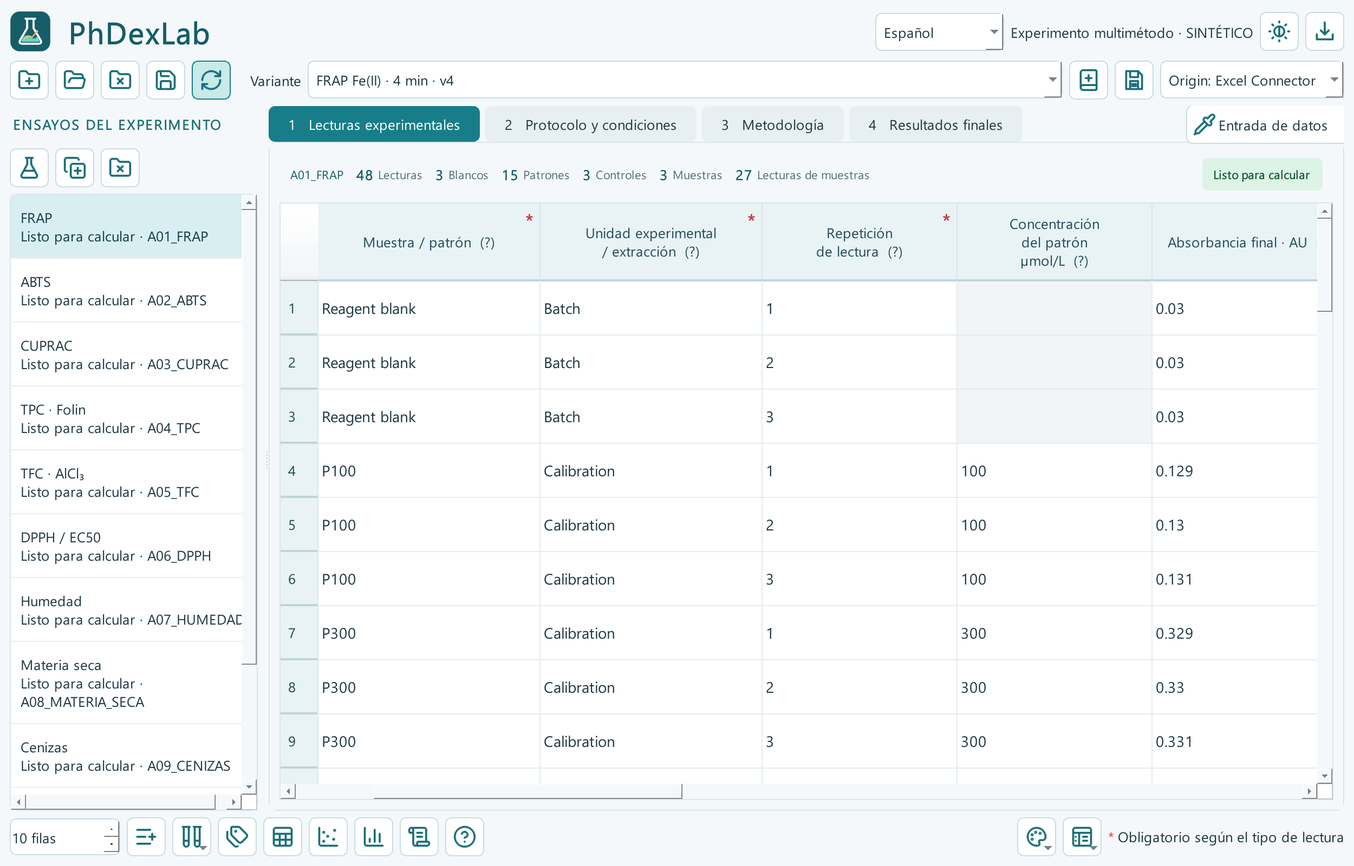
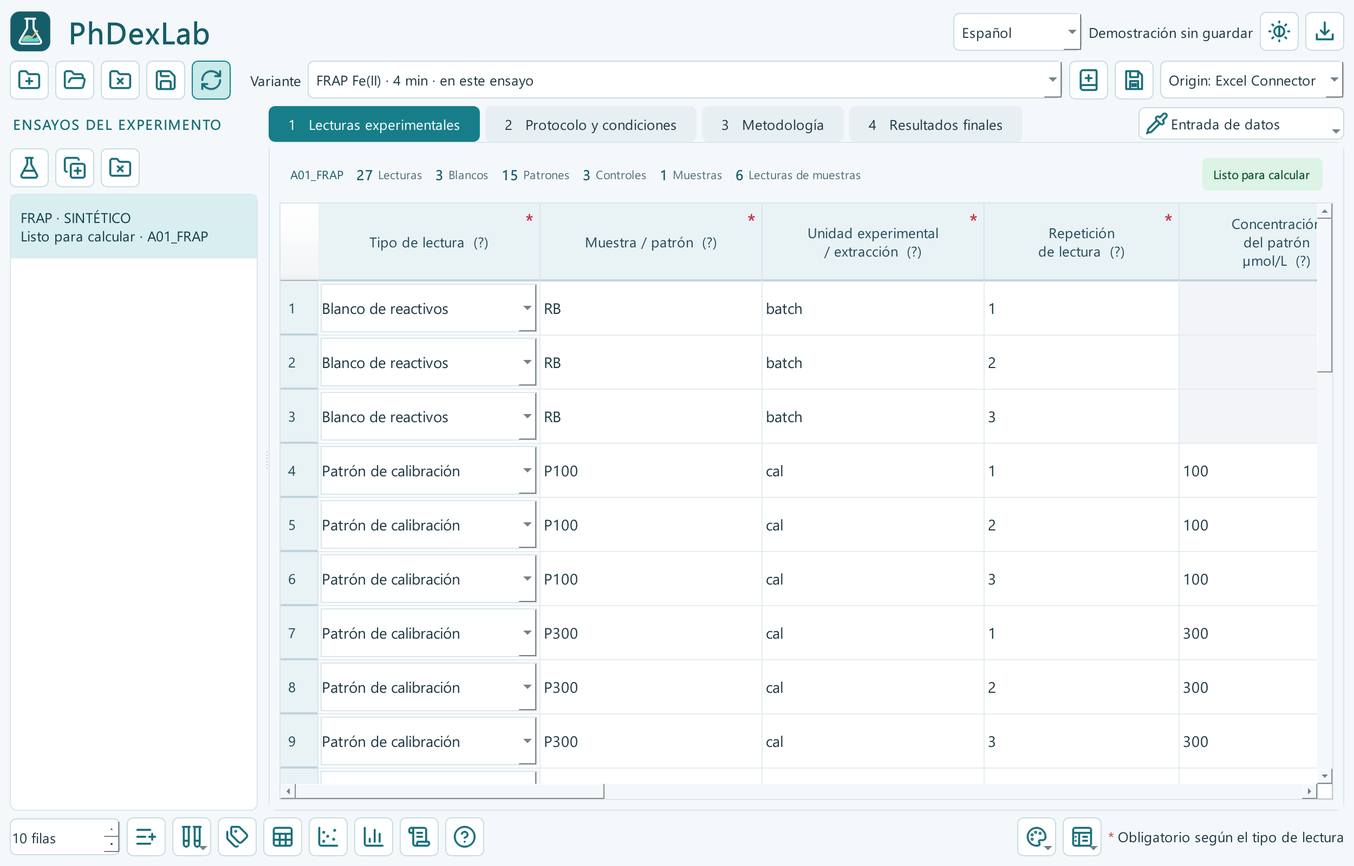
Fix data entry menu access and reserve tab corner space (0.12.1)

diff --git a/phdexlab/help_readings.py b/phdexlab/help_readings.py
@@ -4,13 +4,13 @@ from . import i18n
 def revise(content):
     en=i18n.LANGUAGE=='en';content=list(content)
     content[2]=('3 · Readings or a mean' if en else '3 · Lecturas o una media',
-        '''<h2>Quick entry</h2><ol><li>Select an assay and click <b>Add readings or a mean</b> (pipette, above the table).</li><li>Choose sample, standard, blank/radical control or quality control; enter its name and experimental unit.</li><li>Choose <b>Individual readings</b> and enter 3, 5 or any number of readings, or choose <b>Precomputed mean</b> and enter only the mean.</li><li>Known technical n and response SD are optional for a supplied mean. Leave them blank if unknown.</li><li>Add to the table. Original readings remain separate; a supplied mean remains one explicitly labelled record.</li></ol><p>Individual readings and a mean cannot describe the same unit/condition simultaneously. A grand mean is not several independent replicates.</p><h2>Table editing</h2><p>One click selects, typing replaces, F2/double-click edits. Delete clears cells. Ctrl+C/X/V and the right-click menu copy, cut, paste, insert and delete rows. Missing required values have a red *. Incomplete work can be saved as a draft.</p>'''
-        if en else '''<h2>Entrada rápida</h2><ol><li>Selecciona un ensayo y pulsa <b>Añadir lecturas o una media</b> (pipeta, sobre la tabla).</li><li>Elige muestra, patrón, blanco/control radical o control de calidad; indica nombre y unidad experimental.</li><li>Elige <b>Lecturas individuales</b> e introduce 3, 5 o las que necesites, o selecciona <b>Media ya calculada</b> y escribe solo la media.</li><li>El n técnico y la DE de respuesta de una media son opcionales. Déjalos vacíos si no los conoces.</li><li>Añade a la tabla. Las lecturas originales se conservan por separado; una media permanece como un único registro identificado.</li></ol><p>No se admiten lecturas individuales y una media para la misma unidad/condición. Una media global no equivale a varias réplicas experimentales.</p><h2>Editar la tabla</h2><p>Un clic selecciona, escribir sustituye y F2/doble clic edita. Supr borra. Ctrl+C/X/V y el menú con clic derecho permiten copiar, cortar, pegar, insertar y eliminar filas. Los campos obligatorios llevan * rojo. Puedes guardar datos incompletos como borrador.</p>''')
+        '''<h2>Quick entry</h2><ol><li>Select an assay and click <b>Data entry → New sample or standard</b> on the right of the tabs.</li><li>Choose sample, standard, blank/radical control or quality control; enter its name and experimental unit.</li><li>Choose <b>Individual readings</b> and enter 3, 5 or any number of readings, or choose <b>Precomputed mean</b> and enter only the mean.</li><li>Known technical n and response SD are optional for a supplied mean. Leave them blank if unknown.</li><li>Add to the table. Original readings remain separate; a supplied mean remains one explicitly labelled record.</li></ol><p>Individual readings and a mean cannot describe the same unit/condition simultaneously. A grand mean is not several independent replicates.</p><h2>Table editing</h2><p>One click selects, typing replaces, F2/double-click edits. Delete clears cells. Ctrl+C/X/V and the right-click menu copy, cut, paste, insert and delete rows. Missing required values have a red *. Incomplete work can be saved as a draft.</p>'''
+        if en else '''<h2>Entrada rápida</h2><ol><li>Selecciona un ensayo y pulsa <b>Entrada de datos → Nueva muestra o patrón</b> a la derecha de las pestañas.</li><li>Elige muestra, patrón, blanco/control radical o control de calidad; indica nombre y unidad experimental.</li><li>Elige <b>Lecturas individuales</b> e introduce 3, 5 o las que necesites, o selecciona <b>Media ya calculada</b> y escribe solo la media.</li><li>El n técnico y la DE de respuesta de una media son opcionales. Déjalos vacíos si no los conoces.</li><li>Añade a la tabla. Las lecturas originales se conservan por separado; una media permanece como un único registro identificado.</li></ol><p>No se admiten lecturas individuales y una media para la misma unidad/condición. Una media global no equivale a varias réplicas experimentales.</p><h2>Editar la tabla</h2><p>Un clic selecciona, escribir sustituye y F2/doble clic edita. Supr borra. Ctrl+C/X/V y el menú con clic derecho permiten copiar, cortar, pegar, insertar y eliminar filas. Los campos obligatorios llevan * rojo. Puedes guardar datos incompletos como borrador.</p>''')
     content[2]=(content[2][0],content[2][1]+(
         '<h3>Fill and repetitions</h3><p>Select P0 and P1 and drag the corner square to continue the series. Ctrl+D fills down, Ctrl+R fills right; Ctrl+Z/Y undo and redo.</p><p>In the right-click menu, <b>Number repeated readings</b> numbers existing rows by sample and unit. <b>Add repeated readings</b> adds blank measurements with their identifiers already filled.</p>'
         if en else '<h3>Rellenar y repetir</h3><p>Selecciona P0 y P1 y arrastra el cuadrado de la esquina para continuar la serie. Ctrl+D rellena hacia abajo, Ctrl+R hacia la derecha; Ctrl+Z/Y deshace y rehace.</p><p>En el menú de clic derecho, <b>Numerar repeticiones</b> numera filas existentes por muestra y unidad. <b>Añadir repeticiones</b> crea mediciones vacías con los identificadores ya rellenados.</p>'))
-    content[1]=(content[1][0],content[1][1]+('''<h2>Input options</h2><p>The first controls in Protocol and conditions set the signal, preferred entry mode, default number of readings, sample correction, blank handling, input defaults and minimum calibration levels. A default count prepares the form; it does not require exactly that many measurements.</p><p>For an older experiment, use the arrow beside the pipette → Configure entry in Protocol and conditions. This explicitly adds the options while preserving readings and the original signal. Save to retain the change.</p><p>An initial reading is required only for paired ΔA. Already measured ΔA needs one value. Endpoint input needs one absorbance. Changing the reference signal is an operator adaptation; clear old measurements or use another assay before changing their meaning.</p>'''
-        if en else '''<h2>Opciones de entrada</h2><p>Los primeros controles de Protocolo y condiciones definen señal, modo preferido, número de lecturas propuesto, corrección de muestra, tratamiento del blanco, valores por defecto y mínimo de niveles de calibración. El número propuesto prepara la ventana; no obliga a medir exactamente esa cantidad.</p><p>Para un experimento anterior, usa la flecha de la pipeta → Configurar entrada en Protocolo y condiciones. La activación es explícita y conserva las medidas y la señal original. Guarda para conservarla.</p><p>La inicial solo es necesaria para ΔA por parejas. Un ΔA ya medido necesita un valor. La lectura única necesita una absorbancia. Cambiar la señal de referencia es una adaptación del operador; borra explícitamente las medidas anteriores o usa otro ensayo antes de cambiar su significado.</p>'''))
+    content[1]=(content[1][0],content[1][1]+('''<h2>Input options</h2><p>The first controls in Protocol and conditions set the signal, preferred entry mode, default number of readings, sample correction, blank handling, input defaults and minimum calibration levels. A default count prepares the form; it does not require exactly that many measurements.</p><p>For an older experiment, use Data entry → Configure entry in Protocol and conditions. This explicitly adds the options while preserving readings and the original signal. Save to retain the change.</p><p>An initial reading is required only for paired ΔA. Already measured ΔA needs one value. Endpoint input needs one absorbance. Changing the reference signal is an operator adaptation; clear old measurements or use another assay before changing their meaning.</p>'''
+        if en else '''<h2>Opciones de entrada</h2><p>Los primeros controles de Protocolo y condiciones definen señal, modo preferido, número de lecturas propuesto, corrección de muestra, tratamiento del blanco, valores por defecto y mínimo de niveles de calibración. El número propuesto prepara la ventana; no obliga a medir exactamente esa cantidad.</p><p>Para un experimento anterior, usa Entrada de datos → Configurar entrada en Protocolo y condiciones. La activación es explícita y conserva las medidas y la señal original. Guarda para conservarla.</p><p>La inicial solo es necesaria para ΔA por parejas. Un ΔA ya medido necesita un valor. La lectura única necesita una absorbancia. Cambiar la señal de referencia es una adaptación del operador; borra explícitamente las medidas anteriores o usa otro ensayo antes de cambiar su significado.</p>'''))
     content[4]=(content[4][0],'''<h2>Reagent blank versus sample background</h2><p>A reagent blank accounts for the reagents/solvent. A sample blank accounts for the sample's own colour or turbidity, measured without the assay chromophore under appropriate matched conditions. They are different corrections.</p><p><b>Default: No additional correction.</b> You do not need to enter zeros throughout the table. Enable Additional sample blank (net) only when you have measured and justified it. Enter its net contribution, already corrected against its own blank.</p><p>Example: sample A = 0.620, reagent blank = 0.020 and additional net background = 0.030 gives 0.570 AU. Do not put 0.020 into both blank fields. For paired ΔA, supply a background correction appropriate to the change.</p><h2>Already zeroed readings</h2><p>For colorimetric assays only, choose Readings already zeroed against a reagent blank if the instrument did that subtraction. No fictitious blank measurement is created. ABTS and DPPH still require their radical controls; these are not initial readings of the sample.</p><h2>Calibration</h2><p>Each assay has one calibration shared by its samples. The configurable minimum is 3 distinct levels by default, 2 at the mathematical minimum; two points do not establish linearity. Quality controls use Expected control once, in the calibration-axis units. Review range, residuals and recovery, not only R².</p>'''
         if en else '''<h2>Blanco de reactivos y fondo de muestra</h2><p>El blanco de reactivos recoge la señal de reactivos/disolvente. El blanco propio de muestra recoge su color o turbidez, medidos sin el cromóforo del ensayo en condiciones equivalentes apropiadas. Son correcciones distintas.</p><p><b>Por defecto: Sin corrección adicional.</b> No tienes que rellenar ceros en toda la tabla. Activa Blanco propio de muestra (neto) solo si lo has medido y justificado. Introduce su contribución neta, ya corregida por su propio blanco.</p><p>Ejemplo: A de muestra = 0,620, blanco de reactivos = 0,020 y fondo neto adicional = 0,030 dan 0,570 AU. No pongas 0,020 en ambos campos. Para ΔA por parejas, la corrección debe corresponder al incremento.</p><h2>Lecturas ya puestas a cero</h2><p>Solo en ensayos colorimétricos, elige Lecturas ya puestas a cero con blanco si el equipo hizo esa sustracción. No se crea una medición ficticia del blanco. ABTS y DPPH siguen necesitando sus controles radicales; no son lecturas iniciales de la muestra.</p><h2>Calibración</h2><p>Cada ensayo tiene una curva compartida por sus muestras. El mínimo configurable es 3 niveles distintos por defecto, con mínimo matemático de 2; dos puntos no demuestran linealidad. Los controles de calidad usan Esperado del control una sola vez, en las unidades del eje de calibración. Revisa rango, residuos y recuperación, además de R².</p>''')
     content[6]=(content[6][0],content[6][1]+('''<p>You may enter individual absorbances or their supplied mean at each dose/time/experimental unit. Keep the final-mixture dose, real time and operator plateau confirmation. A supplied EC50 value is not an absorbance mean and cannot replace the dose-response measurements.</p>''' if en else '''<p>Puedes introducir absorbancias individuales o su media para cada dosis/tiempo/unidad experimental. Conserva dosis final, tiempo real y confirmación de meseta. Una EC50 ya calculada no es una media de absorbancias y no sustituye las medidas de dosis-respuesta.</p>'''))
@@ -23,7 +23,7 @@ def revise(content):
     content[1]=(content[1][0],content[1][1]+('<p>Protocol source is optional. Leave it empty if you have no reference; existing links are retained when provided.</p>' if en else '<p>Fuente del protocolo es opcional. Déjala vacía si no dispones de referencia; los enlaces aportados se conservan.</p>'))
     content[8]=(content[8][0],content[8][1]+('<h3>Compact Excel</h3><p>Overview combines assays, samples and final results. Each assay has Data (readings, conditions and method) and Analysis (results and calculations). Top links jump to each section. Edit inputs only.</p>' if en else '<h3>Excel agrupado</h3><p>Overview reúne ensayos, muestras y resultados finales. Cada ensayo tiene Data (lecturas, condiciones y método) y Analysis (resultados y cálculos). Los enlaces superiores llevan a cada sección. Edita solo las entradas.</p>'))
     content[11]=(content[11][0],content[11][1]+('<h3>Excel appearance</h3><p>Open the palette menu and choose Excel style. Choose or edit a preset, font and row spacing. The preview updates immediately; save a personal preset to reuse it. Apply, then save or update the experiment.</p>' if en else '<h3>Estilo del Excel</h3><p>Abre el menú de la paleta y elige Estilo del Excel. Escoge o edita una plantilla, letra y altura de filas. La vista previa cambia al momento; guarda un estilo personal para reutilizarlo. Aplica y guarda o actualiza el experimento.</p>'))
-    return content
 
     content[2]=(content[2][0],content[2][1]+('<h3>Import a text file</h3><p>Open Data entry → Import file. Choose separators and encoding, then drag each file header onto its PhDexLab field or use the lists. Review the PhDexLab preview before importing. Rows are appended; missing inputs remain a draft.</p>' if en else '<h3>Importar un archivo de texto</h3><p>Abre Entrada de datos → Importar archivo. Elige separadores y codificación; arrastra cada encabezado a su campo de PhDexLab o usa las listas. Revisa Vista en PhDexLab antes de importar. Se añaden filas; los datos pendientes quedan como borrador.</p>'))
     content[8]=(content[8][0],content[8][1]+('<p>The calculation route links each analysis step. Reading labels identify sample/unit/repeat; same-sheet formulas use local cell addresses. No rows are frozen. Recalculation saves the workbook on Overview.</p>' if en else '<p>El recorrido de cálculo enlaza cada paso. Las filas identifican muestra/unidad/repetición y las fórmulas de la misma hoja usan direcciones locales. No hay filas fijadas. El recálculo guarda el libro en Overview.</p>'))
+    return content

diff --git a/phdexlab/workspace.py b/phdexlab/workspace.py
@@ -67,8 +67,23 @@ class Window(WorkspaceFeatures,SingleAssayWindow):
         self.save_variant_button=self.make_button('Guardar protocolo como nueva variante versionada',self.save_variant,'protocol-save',bar)
         bar.removeWidget(self.save_variant_button);bar.insertWidget(bar.count()-1,self.save_variant_button)
         self.measure_button=next(b for b in self.buttons if b.property('iconName')=='measure')
-        layout.itemAt(3).layout().removeWidget(self.measure_button);self.measure_button.setText('Entrada de datos');self.measure_button.setToolTip('Nueva muestra o patrón');self.measure_button.setToolButtonStyle(Qt.ToolButtonStyle.ToolButtonTextBesideIcon);self.measure_button.setFixedWidth(250);self.tabs.setCornerWidget(self.measure_button,Qt.Corner.TopRightCorner)
-        entry_menu=QMenu(self.measure_button);entry_menu.addAction(t('Nueva muestra o patrón'),lambda:self.guard(self.add_sample));entry_menu.addAction(t('Importar archivo…'),lambda:self.guard(self.import_readings));entry_menu.addSeparator();entry_menu.addAction(t('Numerar repeticiones'),lambda:self.guard(self.raw.number_repeated_readings));entry_menu.addAction(t('Añadir repeticiones…'),lambda:self.guard(self.raw.add_repeated_readings));entry_menu.addAction(t('Configurar entrada en Protocolo y condiciones'),lambda:self.guard(self.configure_input_options));self.measure_button.setMenu(entry_menu);self.measure_button.setPopupMode(QToolButton.ToolButtonPopupMode.MenuButtonPopup)
+        layout.itemAt(3).layout().removeWidget(self.measure_button)
+        # Reserve the corner width even when the tab labels need scrolling.
+        # The entire button opens the menu; no small split-arrow target is needed.
+        self.measure_button.clicked.disconnect()
+        self.measure_button.setText('Entrada de datos');self.measure_button.setToolTip('Entrada de datos')
+        self.measure_button.setToolButtonStyle(Qt.ToolButtonStyle.ToolButtonTextBesideIcon)
+        self.measure_button.setFixedWidth(190)
+        self.measure_button.setFixedHeight(30)
+        self.tabs.setUsesScrollButtons(True)
+        self.tabs.tabBar().setExpanding(False)
+        # QTabWidget measures sizeHint(), which differs from a fixed-width
+        # QToolButton's hint. A layout-backed corner reserves its actual width.
+        self.entry_corner=QWidget()
+        corner_layout=QHBoxLayout(self.entry_corner);corner_layout.setContentsMargins(0,0,0,0)
+        corner_layout.addWidget(self.measure_button)
+        self.tabs.setCornerWidget(self.entry_corner,Qt.Corner.TopRightCorner)
+        entry_menu=QMenu(self.measure_button);entry_menu.addAction('Nueva muestra o patrón',lambda:self.guard(self.add_sample));entry_menu.addAction('Importar archivo…',lambda:self.guard(self.import_readings));entry_menu.addSeparator();entry_menu.addAction('Numerar repeticiones',lambda:self.guard(self.raw.number_repeated_readings));entry_menu.addAction('Añadir repeticiones…',lambda:self.guard(self.raw.add_repeated_readings));entry_menu.addAction('Configurar entrada en Protocolo y condiciones',lambda:self.guard(self.configure_input_options));self.measure_button.setMenu(entry_menu);self.measure_button.setPopupMode(QToolButton.ToolButtonPopupMode.InstantPopup)
         self.method_guide=QTextBrowser();self.method_guide.setOpenExternalLinks(True);self.tabs.addTab(self.method_guide,'3   Metodología')
         self.help_dialog.close();self.help_dialog.deleteLater();self.help_dialog=HelpDialog(self)
         self.demo_menu.clear()

diff --git a/tests/test_v0121.py b/tests/test_v0121.py
@@ -1,0 +1,51 @@
+import pytest
+from PySide6.QtCore import Qt,QTimer,QPoint
+from PySide6.QtTest import QTest
+from PySide6.QtWidgets import QApplication,QToolButton
+
+
+@pytest.mark.parametrize('language,width',[('es',1000),('en',1000),('es',1280),('en',1480)])
+def test_data_entry_whole_button_opens_import_menu_without_tab_overlap(tmp_path,monkeypatch,language,width):
+    monkeypatch.setenv('PHDEXLAB_DATA_DIR',str(tmp_path))
+    from phdexlab import workspace
+    from phdexlab.interface import configure_font
+    configure_font(QApplication.instance())
+    from phdexlab.appearance import save_preferences
+    save_preferences(language,'light')
+    w=workspace.Window();w.load_demo();w.resize(width,800);w.show();QApplication.processEvents()
+    b=w.measure_button
+    assert b.isVisible() and b.isEnabled()
+    assert b.popupMode()==QToolButton.ToolButtonPopupMode.InstantPopup
+    corner=w.tabs.cornerWidget(Qt.Corner.TopRightCorner)
+    assert corner is w.entry_corner
+    assert w.tabs.rect().contains(b.mapTo(w.tabs,QPoint(0,0)))
+    assert w.tabs.rect().contains(b.mapTo(w.tabs,b.rect().bottomRight()))
+    assert corner.rect().contains(b.mapTo(corner,b.rect().bottomRight()))
+    assert w.tabs.tabBar().geometry().right()<corner.geometry().left()
+    called=[];opened=[]
+    monkeypatch.setattr(w,'add_sample',lambda:called.append('sample'))
+    monkeypatch.setattr(w,'import_readings',lambda:called.append('import'))
+    def shown():
+        opened.append(True)
+        QTimer.singleShot(0,b.menu().close)
+    b.menu().aboutToShow.connect(shown)
+    # Test a click on the left icon and in the middle, never the arrow region.
+    for pos in (QPoint(12,b.height()//2),b.rect().center()):
+        QTest.mouseClick(b,Qt.MouseButton.LeftButton,pos=pos)
+        QApplication.processEvents()
+    assert len(opened)==2 and called==[]
+    actions=[a for a in b.menu().actions() if not a.isSeparator()]
+    assert ('Importar archivo' if language=='es' else 'Import file') in actions[1].text()
+    actions[1].trigger();assert called==['import']
+    actions[0].trigger();assert called==['import','sample']
+    w.dirty=False;w.close()
+
+
+@pytest.mark.parametrize('language',['en','es'])
+def test_help_contains_import_and_calculation_route(language):
+    from phdexlab import i18n
+    from phdexlab.help_readings import revise
+    i18n.set_language(language)
+    content=revise([('title','') for _ in range(12)])
+    assert ('Import a text file' if language=='en' else 'Importar un archivo de texto') in content[2][1]
+    assert ('calculation route' if language=='en' else 'recorrido de cálculo') in content[8][1]

diff --git a/phdexlab/release_notes.py b/phdexlab/release_notes.py
@@ -8,18 +8,12 @@ from .updater import version,REPO_URL
 
 NOTES={
     'es':[
-        'Excel: recorrido de cálculo con enlaces, filas identificadas por muestra y referencias locales más sencillas.',
-        'Sin filas fijadas. Overview vuelve a ser la hoja inicial después de calcular.',
-        'Entrada de datos: importa CSV, TXT, TSV y otros textos delimitados con separadores y codificación configurables.',
-        'Asigna columnas arrastrando sus encabezados o con listas y revisa el resultado antes de importar.',
-        'Origin: vista de página completa guardada, sin modificar las dimensiones de las figuras.'
+        'Entrada de datos está a la derecha de las pestañas. Pulsa cualquier parte del botón para abrir el menú e importar un archivo.',
+        'Ayuda actualizada con las instrucciones de importación y el recorrido de cálculo de Excel.'
     ],
     'en':[
-        'Excel: linked calculation route, sample-labelled readings and simpler local cell references.',
-        'No frozen rows. Overview is restored as the initial sheet after calculation.',
-        'Data entry: import CSV, TXT, TSV and other delimited text with configurable separators and encoding.',
-        'Map columns by dragging headers or using lists, then preview the result before importing.',
-        'Origin: saved whole-page view, preserving publication dimensions.'
+        'Data entry is on the right of the tabs. Click anywhere on the button to open its menu and import a file.',
+        'Updated help with file import instructions and the Excel calculation route.'
     ]}
 
 

diff --git a/phdexlab/__init__.py b/phdexlab/__init__.py
@@ -1,2 +1,2 @@
 """Standalone experimental analysis. Public API: phdexlab.integration."""
-__version__ = "0.12.0"
+__version__ = "0.12.1"

diff --git a/docs/MANUAL.md b/docs/MANUAL.md
@@ -46,7 +46,7 @@ Para continuar un trabajo, abre su carpeta raíz desde la aplicación. **Cerrar 
 
 ### Lecturas individuales o una media
 
-Pulsa **Entrada de datos / Data entry**, el botón de pipeta sobre la tabla. Elige tipo de lectura, muestra/patrón y unidad experimental. Puedes introducir 3, 5 o más absorbancias, o elegir **Media ya calculada / Precomputed mean** y escribir solo esa media. Las casillas vacías que sobren no se cuentan como medidas; una pareja parcialmente rellenada sigue pendiente.
+Pulsa **Entrada de datos / Data entry → Nueva muestra o patrón / New sample or standard**, el botón de pipeta a la derecha de las pestañas. Elige tipo de lectura, muestra/patrón y unidad experimental. Puedes introducir 3, 5 o más absorbancias, o elegir **Media ya calculada / Precomputed mean** y escribir solo esa media. Las casillas vacías que sobren no se cuentan como medidas; una pareja parcialmente rellenada sigue pendiente.
 
 ![Entrada de lecturas individuales](readings-en-v092.png)
 
@@ -69,7 +69,9 @@ En RAW, cada fila representa una lectura original o una media aportada identific
 
 Un clic selecciona la celda. Escribir sustituye su contenido; F2 o doble clic permite editar el texto existente. Supr deja vacías las celdas seleccionadas. Ctrl+C, Ctrl+X y Ctrl+V permiten copiar, cortar y pegar. El menú con clic derecho permite insertar una cantidad de filas, eliminar las seleccionadas, copiar filas completas y pegarlas como filas nuevas; estas reciben identificadores internos nuevos. Puedes pegar una tabla de Excel con tabulaciones desde la celda seleccionada. Añade las filas necesarias con el control de cantidad de filas. Los asteriscos rojos indican campos obligatorios para la categoría y el protocolo de esa fila. Las columnas atenuadas no se utilizan en ese contexto.
 
-Para importar un archivo, abre la flecha de **Entrada de datos → Importar archivo…**. Admite CSV, TXT, TSV y otros textos delimitados:
+![Menú Entrada de datos](data-entry-es-v0121.png)
+
+Para importar un archivo, pulsa **Entrada de datos → Importar archivo…**. Admite CSV, TXT, TSV y otros textos delimitados:
 
 1. Revisa separador, decimal, miles, codificación, comillas y líneas iniciales.
 2. Arrastra un encabezado del archivo al campo correspondiente de PhDexLab, o selecciónalo en su lista. El orden del archivo es libre. Las columnas sin asignar se omiten.
@@ -120,7 +122,7 @@ La nueva plantilla TFC utiliza **extracto seco**, como su fuente operativa. Si y
 
 - Selecciona `P0` y `P1` y arrastra el cuadrado de la esquina inferior derecha para obtener `P2`, `P3`… También funciona con concentraciones, números y nombres como `E01`.
 - `Ctrl+D` copia hacia abajo y `Ctrl+R` hacia la derecha. Al pegar un único valor sobre un rango seleccionado, se rellena todo el rango. `Ctrl+Z` y `Ctrl+Y` deshacen y rehacen.
-- **Numerar repeticiones**, en el clic derecho o la flecha de la pipeta, completa las filas seleccionadas por muestra y unidad, sin cambiar mediciones.
+- **Numerar repeticiones**, en el clic derecho o Entrada de datos, completa las filas seleccionadas por muestra y unidad, sin cambiar mediciones.
 - **Añadir repeticiones** crea filas del mismo diseño, numera sus repeticiones y deja vacías las absorbancias. No convierte una media en lecturas individuales.
 - Al editar un nombre de muestra o unidad se sugieren nombres ya presentes en la columna.
 
@@ -130,7 +132,7 @@ En **Protocolo y condiciones / Protocol and conditions** revisa unidades, concen
 
 El número de lecturas prepara el formulario y es editable por entrada; no impone triplicados. El TPC base propone duplicados; en gravimetría se propone una fila por unidad para no presentar alícuotas independientes como técnicas de la misma unidad.
 
-Para activar estas opciones en un experimento anterior, pulsa la flecha de la pipeta → **Configurar entrada en Protocolo y condiciones**. Se conservan sus lecturas y señal; guarda para conservar la activación. Las plantillas de datos antiguas compatibles se pueden cargar sin copiar medidas ni inventar precisión. Los experimentos con el diseño nuevo requieren 0.9.2 o posterior para abrirse; las versiones anteriores no conocen sus columnas de procedencia. Guardar una variante crea una versión para reutilizar esas condiciones; el experimento conserva la versión que utilizó. No cambia retrospectivamente todos los experimentos anteriores.
+Para activar estas opciones en un experimento anterior, pulsa Entrada de datos → **Configurar entrada en Protocolo y condiciones**. Se conservan sus lecturas y señal; guarda para conservar la activación. Las plantillas de datos antiguas compatibles se pueden cargar sin copiar medidas ni inventar precisión. Los experimentos con el diseño nuevo requieren 0.9.2 o posterior para abrirse; las versiones anteriores no conocen sus columnas de procedencia. Guardar una variante crea una versión para reutilizar esas condiciones; el experimento conserva la versión que utilizó. No cambia retrospectivamente todos los experimentos anteriores.
 
 La ficha de metodología incluye las fuentes originales. Una adaptación bibliográfica no implica que las condiciones hayan sido validadas para tu matriz. Los métodos con condiciones pendientes requieren completarlas. No interpretes un resultado de equivalentes, un porcentaje de inhibición y un EC50 como magnitudes intercambiables. En dosis-respuesta, revisa la definición de dosis y la cobertura del intervalo: no fuerces una extrapolación fuera de los datos.
 
@@ -288,7 +290,7 @@ El código se publica bajo [licencia MIT](../LICENSE). Consulta [los avisos de t
 
 Después de una actualización, la primera apertura muestra una ventana con las novedades de la versión instalada y un enlace a GitHub. Solo aparece una vez por versión y no necesita conexión para mostrar el resumen. La primera instalación sigue abriendo la ayuda.
 
-El resumen sobre la tabla separa los contadores de lecturas, blancos, patrones, controles y muestras. **Listo para calcular** aparece en verde cuando las entradas están completas; no certifica la validez analítica ni sustituye a revisar los controles de calidad.
+El resumen a la derecha de las pestañas separa los contadores de lecturas, blancos, patrones, controles y muestras. **Listo para calcular** aparece en verde cuando las entradas están completas; no certifica la validez analítica ni sustituye a revisar los controles de calidad.
 
 ![Resumen de lecturas y estado](summary-es-v0101.png)
 

diff --git a/docs/VALIDATION.md b/docs/VALIDATION.md
@@ -165,3 +165,10 @@ Real Excel checks cover both an already-open workbook and a workbook opened afte
 The final frozen FRAP/DPPH run completed with 12 Origin and 12 Publication exports; native style values were read back. The module inventory matches release source, and all 24 help screenshots are present in the frozen payload. The single-file installer passed isolated installation, shortcut and frozen GUI checks. A real 0.8.0 Application copy was upgraded with the exact 0.9.0 release ZIP: startup passed, screenshots were present and experiment/style sentinels were unchanged. Installer verification uses its own InstallId and redirected desktop/menu folders so an existing real installation’s uninstall registration is preserved.
 
 After 0.9.0 publication, the installed frozen 0.9.0 executable reported version 0.9.0 with TLS initialized and `ok: true`. The frozen 0.8.0 checker independently detected 0.9.0 with `newer: true`. All four uploaded asset digests matched their tested local files. The exact installer’s isolated uninstall registration was confirmed before removal; uninstall removed its executable and shortcuts while retaining the sentinel experiment and personal style.
+
+
+## 0.12.1 — acceso a la importación
+
+El botón Entrada de datos se ubica a la derecha de las pestañas, con espacio reservado para evitar superposiciones. Un clic en el icono o en el centro abre el mismo menú. Pruebas de regresión verifican acceso a Importar archivo, ausencia de apertura accidental del formulario y visibilidad en español/inglés con ventanas de 1000, 1280 y 1480 píxeles. La ayuda incorpora las instrucciones de importación y el recorrido de cálculo, que antes quedaban después de un retorno anticipado. Capturas revisadas a escala 200 %. Los cálculos y los conectores no cambian.
+
[1 lines of base64/hex data omitted]

diff --git a/CHANGELOG.md b/CHANGELOG.md
@@ -2,6 +2,11 @@
 
 Para instalar y utilizar PhDexLab, consulta el [manual vigente](docs/MANUAL.md). Esta página explica la evolución; las instrucciones actuales no están repartidas entre versiones.
 
+## 0.12.1
+
+- Entrada de datos tiene su propio espacio a la derecha de las pestañas y abre el menú completo con un clic en cualquier parte. Importar archivo ya no depende de una flecha pequeña junto a las pestañas.
+- Ayuda actualizada con las instrucciones de importación y del recorrido de cálculo.
+
 ## 0.12.0
 
 - Excel con recorrido de cálculo enlazado, pasos numerados y lecturas identificadas por muestra/unidad/repetición. Referencias locales cuando los datos están en la misma hoja; comentarios de fórmula y resultados destacados.

diff --git a/docs/README.md b/docs/README.md
@@ -1,6 +1,6 @@
 # Documentación de PhDexLab
 
-Esta documentación describe el funcionamiento actual de la aplicación, tomando **0.12.0** como versión de referencia. La descarga vigente siempre está en [Releases / latest](https://github.com/RpastranaE/PhDexLab/releases/latest).
+Esta documentación describe el funcionamiento actual de la aplicación, tomando **0.12.1** como versión de referencia. La descarga vigente siempre está en [Releases / latest](https://github.com/RpastranaE/PhDexLab/releases/latest).
 
 - **Primera vez:** [Manual de uso](MANUAL.md), desde instalación hasta resultados.
 - **Quiero cambiar el programa:** [Desarrollo y compilación](DEVELOPMENT.md), desde descargar el código hasta probar y empaquetar cambios.
